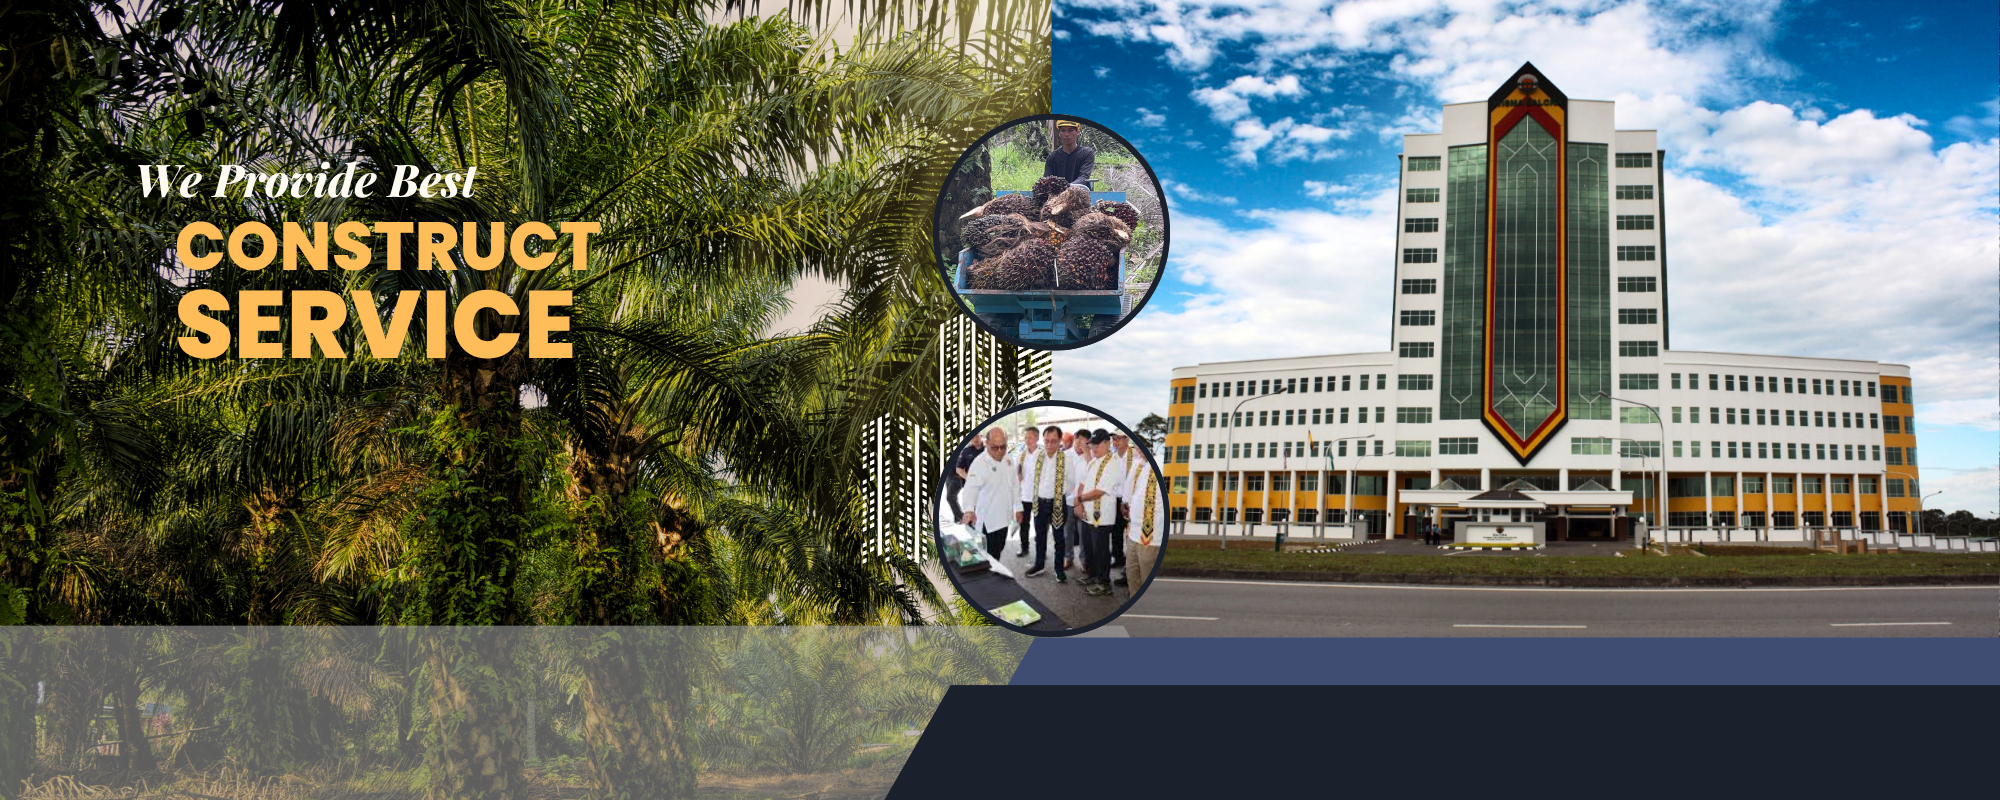
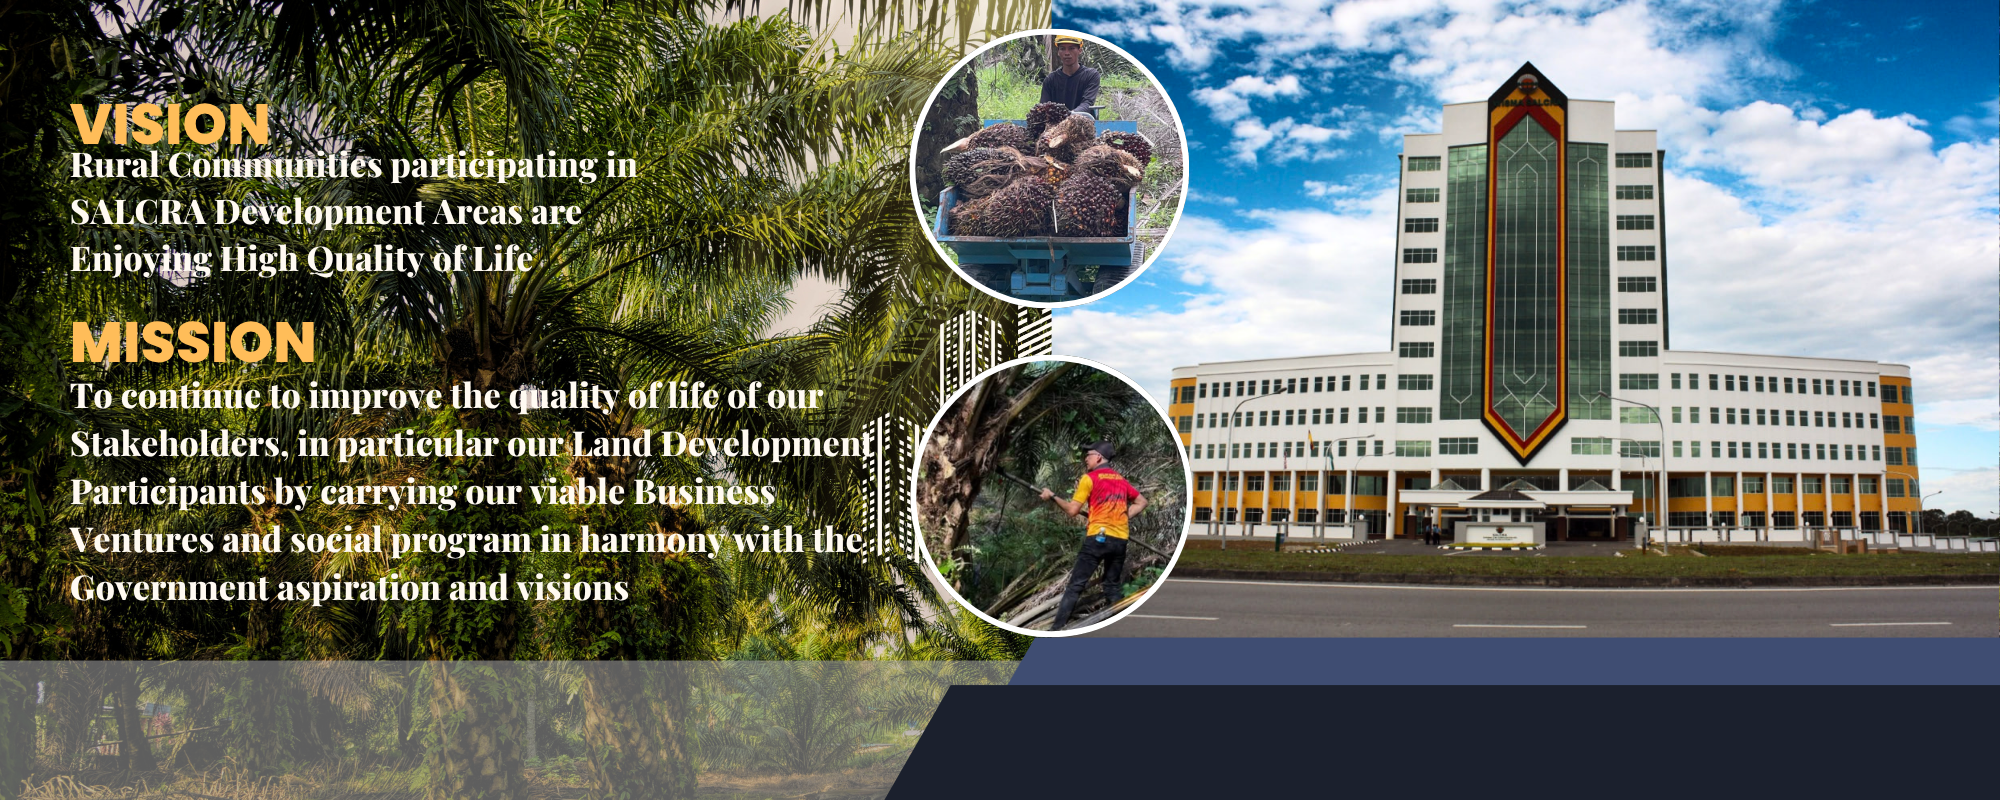
Updated - Aug

Changed region(s): [[0.0, 0.0312, 0.62, 0.8438]]

diff --git a/business/services/bajo-training-centre.html b/business/services/bajo-training-centre.html
@@ -894,34 +894,6 @@
       </div>
     </div>
 
-    <!-- ── KEY METRICS BAR ────────────────────────────────────── -->
-    <div class="bg-white border-b border-gray-100 shadow-sm relative z-20">
-      <div class="max-w-7xl mx-auto px-4 sm:px-6 lg:px-8 py-8">
-        <div
-          class="grid grid-cols-1 md:grid-cols-3 gap-8 text-center divider-y md:divider-y-0 md:divider-x divider-gray-100">
-          <div>
-            <span class="block text-4xl sm:text-5xl font-black text-[#00A859] stat-counter" data-target="1500"
-              data-suffix="+ / yr">0+ / yr</span>
-            <span class="block text-xs uppercase font-semibold text-gray-500 mt-2 tracking-wider">Trainees &amp; Staff
-              Trained</span>
-          </div>
-          <div class="pt-6 md:pt-0">
-            <span class="block text-4xl sm:text-5xl font-black text-[#00A859] stat-counter" data-target="12"
-              data-suffix=" Modules">0 Modules</span>
-            <span class="block text-xs uppercase font-semibold text-gray-500 mt-2 tracking-wider">Professional Core
-              Courses</span>
-          </div>
-          <div class="pt-6 md:pt-0">
-            <span class="block text-4xl sm:text-5xl font-black text-[#00A859] stat-counter" data-target="95"
-              data-suffix="%">0%</span>
-            <span class="block text-xs uppercase font-semibold text-gray-500 mt-2 tracking-wider">Trainee Competency
-              Rate</span>
-          </div>
-        </div>
-      </div>
-    </div>
-
-
     <!-- ══════════════════════════════════════════════════════════
          SECTION 1: HOME / OVERVIEW  (white background)
     ══════════════════════════════════════════════════════════ -->
@@ -929,13 +901,13 @@
       <div class="max-w-7xl mx-auto px-4 sm:px-6 lg:px-8">
         <div class="grid grid-cols-1 lg:grid-cols-12 gap-12 items-center">
 
-          <!-- LEFT: Campus image -->
+          <!-- LEFT: Training centre image -->
           <div class="lg:col-span-5 relative group">
             <div
               class="absolute inset-0 bg-[#00A859]/10 translate-x-3 translate-y-3 -z-10 transition-transform group-hover:translate-x-4 group-hover:translate-y-4 duration-300">
             </div>
             <div class="overflow-hidden shadow-2xl border border-gray-100 bg-white aspect-[4/3] relative">
-              <img src="../../assets/images/banners/btc.png" alt="Bajo Training Centre Campus"
+              <img src="../../assets/images/banners/btc.png" alt="Bajo Training Centre"
                 class="w-full h-full object-cover transition-transform duration-500 group-hover:scale-105">
             </div>
             <div class="mt-4 text-left">
@@ -1569,7 +1541,7 @@
               <div class="space-y-2">
                 <h4 class="text-lg font-bold text-gray-900">Meeting Rooms</h4>
                 <p class="text-xs text-gray-600 font-light leading-relaxed">
-                  Premium Board and meeting rooms equipped for collaborative group discussions of 10 to 25 guests.
+                  Board and meeting rooms equipped for collaborative group discussions of 10 to 25 guests.
                 </p>
               </div>
               <div
@@ -1730,7 +1702,7 @@
               class="relative w-full aspect-[16/10] overflow-hidden group/slider select-none border-b border-gray-100"
               data-slide-index="0">
               <div class="facility-slides flex h-full transition-transform duration-300 w-full">
-                <img src="../../assets/images/banners/trail1.jpg" alt="Paved Campus Jogging Track"
+                <img src="../../assets/images/banners/trail1.jpg" alt="Paved Jogging Track"
                   class="w-full h-full object-cover shrink-0">
                 <img src="../../assets/images/banners/trail2.jpg" alt="Scenic Nature Trails"
                   class="w-full h-full object-cover shrink-0">
@@ -1759,7 +1731,7 @@
               <div class="space-y-2">
                 <h4 class="text-lg font-bold text-gray-900">Jogging Track &amp; Trails</h4>
                 <p class="text-xs text-gray-600 font-light leading-relaxed">
-                  Dedicated outdoor jogging tracks and nature trails winding through Lundu's scenic campus landscapes.
+                  Dedicated outdoor jogging tracks and nature trails winding through Lundu's scenic landscapes.
                 </p>
               </div>
               <div
@@ -1911,19 +1883,14 @@
               <!-- Year 2017 Card -->
               <div onclick="selectYear('2017')"
                 class="group cursor-pointer relative rounded-none overflow-hidden aspect-[4/3] shadow-lg border border-gray-100 bg-white hover:shadow-2xl transition-all duration-300 transform hover:-translate-y-1">
-                <img src="../../assets/images/banners/training_classroom.png" alt="2017 Events"
+                <img src="../../assets/images/banners/image_ph.jpg" alt="2017 Events"
                   class="absolute inset-0 w-full h-full object-cover transition-transform duration-500 group-hover:scale-105 opacity-90">
                 <div class="absolute inset-0 bg-gradient-to-t from-black/85 via-black/40 to-transparent"></div>
                 <div class="absolute bottom-0 left-0 right-0 p-6 text-white flex flex-col justify-end h-full">
-                  <span class="text-[10px] text-[#F2A900] uppercase font-bold tracking-wider mb-1">Archive Folder</span>
-                  <h3 class="text-2xl font-extrabold tracking-wide">Year 2017</h3>
-                  <p
-                    class="text-xs text-gray-200 font-light mt-1.5 opacity-0 group-hover:opacity-100 transition-opacity duration-300">
-                    View events, classrooms, and blessings from 2017.
-                  </p>
+                  <h3 class="text-2xl font-extrabold tracking-wide">Gallery Event 2017</h3>
                   <div
                     class="mt-4 flex items-center gap-1.5 text-xs text-[#00A859] font-bold bg-white rounded-lg px-3 py-1.5 w-fit transform translate-y-2 opacity-0 group-hover:translate-y-0 group-hover:opacity-100 transition-all duration-300">
-                    Read More <i data-feather="chevron-right" class="w-3.5 h-3.5"></i>
+                    View Events <i data-feather="chevron-right" class="w-3.5 h-3.5"></i>
                   </div>
                 </div>
               </div>
@@ -1931,19 +1898,14 @@
               <!-- Year 2018 Card -->
               <div onclick="selectYear('2018')"
                 class="group cursor-pointer relative rounded-none overflow-hidden aspect-[4/3] shadow-lg border border-gray-100 bg-white hover:shadow-2xl transition-all duration-300 transform hover:-translate-y-1">
-                <img src="../../assets/images/banners/training_field_work.png" alt="2018 Events"
+                <img src="../../assets/images/banners/image_ph.jpg" alt="2018 Events"
                   class="absolute inset-0 w-full h-full object-cover transition-transform duration-500 group-hover:scale-105 opacity-90">
                 <div class="absolute inset-0 bg-gradient-to-t from-black/85 via-black/40 to-transparent"></div>
                 <div class="absolute bottom-0 left-0 right-0 p-6 text-white flex flex-col justify-end h-full">
-                  <span class="text-[10px] text-[#F2A900] uppercase font-bold tracking-wider mb-1">Archive Folder</span>
-                  <h3 class="text-2xl font-extrabold tracking-wide">Year 2018</h3>
-                  <p
-                    class="text-xs text-gray-200 font-light mt-1.5 opacity-0 group-hover:opacity-100 transition-opacity duration-300">
-                    Browse infrastructure clearing and maintenance reports.
-                  </p>
+                  <h3 class="text-2xl font-extrabold tracking-wide">Gallery Event 2018</h3>
                   <div
                     class="mt-4 flex items-center gap-1.5 text-xs text-[#00A859] font-bold bg-white rounded-lg px-3 py-1.5 w-fit transform translate-y-2 opacity-0 group-hover:translate-y-0 group-hover:opacity-100 transition-all duration-300">
-                    Read More <i data-feather="chevron-right" class="w-3.5 h-3.5"></i>
+                    View Events <i data-feather="chevron-right" class="w-3.5 h-3.5"></i>
                   </div>
                 </div>
               </div>
@@ -1986,7 +1948,7 @@
     <section id="gallery" class="scroll-mt-32 py-20 bg-gray-50 border-t border-gray-200">
       <div class="max-w-7xl mx-auto px-4 sm:px-6 lg:px-8">
         <div class="text-center max-w-3xl mx-auto mb-16">
-          <span class="text-secondary font-bold tracking-widest uppercase text-sm mb-2 block">Campus
+          <span class="text-secondary font-bold tracking-widest uppercase text-sm mb-2 block">Training centre
             life in pictures</span>
           <h2 class="text-3xl sm:text-4xl font-extrabold text-gray-900 tracking-tight">BTC Visual Gallery</h2>
           <p class="text-base text-gray-600 mt-2 font-light">Explore our Dayak-crafted structures, classrooms, field
@@ -2008,13 +1970,13 @@
                 <div
                   class="group overflow-hidden border border-gray-100 shadow-sm bg-white hover:shadow-md transition-all duration-300">
                   <div class="overflow-hidden aspect-[4/3] bg-gray-100">
-                    <img src="../../assets/images/banners/btc.png" alt="Bajo Campus Main Building"
+                    <img src="../../assets/images/banners/btc.png" alt="Bajo Training Centre"
                       class="w-full h-full object-cover group-hover:scale-105 transition-transform duration-500">
                   </div>
                   <div class="p-4">
-                    <span class="text-[9px] font-bold text-[#00A859] uppercase tracking-wider">Campus
+                    <span class="text-[9px] font-bold text-[#00A859] uppercase tracking-wider">Training Centre
                       Architecture</span>
-                    <h5 class="font-bold text-gray-900 text-sm mt-1">Bajo Campus Main Building</h5>
+                    <h5 class="font-bold text-gray-900 text-sm mt-1">Bajo Training Centre Main Building</h5>
                   </div>
                 </div>
               </div>
@@ -2342,15 +2304,15 @@
           "2017": {
             "July": {
               description: "Focus on academic cohorts, specialized seminars, and interactive classroom learning modules.",
-              coverImage: "../../assets/images/banners/training_classroom.png",
+              coverImage: "../../assets/images/banners/image_ph.jpg",
               items: [
                 {
-                  img: "../../assets/images/banners/training_classroom.png",
+                  img: "../../assets/images/banners/image_ph.jpg",
                   title: "Training Seminars in Progress",
                   desc: "BTC hosted several regional training sessions for palm oil sustainability standards and supervisor leadership."
                 },
                 {
-                  img: "../../assets/images/banners/btc.png",
+                  img: "../../assets/images/banners/image_ph.jpg",
                   title: "BTC Classroom Discussions",
                   desc: "Interactive lecture format facilitating knowledge transfer between senior engineers and plantation managers."
                 }
@@ -2358,27 +2320,27 @@
             },
             "August": {
               description: "Milestones in staff organization, site purification rites, and general compound beautification works.",
-              coverImage: "../../assets/images/banners/btc.png",
+              coverImage: "../../assets/images/banners/image_ph.jpg",
               items: [
                 {
-                  img: "../../assets/images/banners/btc.png",
+                  img: "../../assets/images/banners/image_ph.jpg",
                   title: "Ground Blessing Ceremony",
                   desc: "Local community leaders and SALCRA management conducting blessing rites for future extension blocks at Bajo."
                 },
                 {
-                  img: "../../assets/images/banners/wisma-building.jpg",
+                  img: "../../assets/images/banners/image_ph.jpg",
                   title: "Staff Relocation to New Office Wings",
                   desc: "BTC administration team completing their relocation to modern workspaces in the newly constructed annex."
                 },
                 {
-                  img: "../../assets/images/banners/support_services_hero.png",
+                  img: "../../assets/images/banners/image_ph.jpg",
                   title: "Site Cleaning Campaign",
                   desc: "Joint cleaning campaign (Gotong-Royong) executed by BTC staff and trainees to preserve environmental quality."
                 },
                 {
-                  img: "../../assets/images/banners/plantation_aerial.png",
+                  img: "../../assets/images/banners/image_ph.jpg",
                   title: "Compound Maintenance & Grass Cutting",
-                  desc: "Routine landscape management to ensure campus paths, facilities borders, and perimeter zones remain neat."
+                  desc: "Routine landscape management to ensure site paths, facilities borders, and perimeter zones remain neat."
                 }
               ]
             }
@@ -2386,15 +2348,15 @@
           "2018": {
             "January": {
               description: "Critical infrastructure reinforcement, drainage clearing, and water logistics updates during monsoon checks.",
-              coverImage: "../../assets/images/banners/seed_garden_hero.png",
+              coverImage: "../../assets/images/banners/image_ph.jpg",
               items: [
                 {
-                  img: "../../assets/images/banners/seed_garden_hero.png",
+                  img: "../../assets/images/banners/image_ph.jpg",
                   title: "Clearing the Water Dam",
                   desc: "Removal of debris and mud siltation from the BTC reservoir dam to secure stable gravity water supply."
                 },
                 {
-                  img: "../../assets/images/banners/support_logistics.png",
+                  img: "../../assets/images/banners/image_ph.jpg",
                   title: "Clearing and Upgrading Main Pipes",
                   desc: "Replacing corroded joints and unblocking filtration pipes leading from source tanks to accommodation quarters."
                 }
@@ -2402,10 +2364,10 @@
             },
             "February": {
               description: "Practical outdoor workshops, tools safety operations, and field supervision simulations.",
-              coverImage: "../../assets/images/banners/training_field_work.png",
+              coverImage: "../../assets/images/banners/image_ph.jpg",
               items: [
                 {
-                  img: "../../assets/images/banners/training_field_work.png",
+                  img: "../../assets/images/banners/image_ph.jpg",
                   title: "Field Activities Review",
                   desc: "Supervisors guiding cohorts through harvesting simulations and tools handling best practices."
                 }

diff --git a/css/output.css b/css/output.css
@@ -786,10 +786,6 @@ body {
   top: 100%;
 }
 
-.bottom-4 {
-  bottom: 1rem;
-}
-
 .-z-10 {
   z-index: -10;
 }
@@ -1032,6 +1028,10 @@ body {
   aspect-ratio: 16/10;
 }
 
+.aspect-\[16\/14\] {
+  aspect-ratio: 16/14;
+}
+
 .aspect-\[16\/9\] {
   aspect-ratio: 16/9;
 }
@@ -1046,14 +1046,6 @@ body {
 
 .aspect-video {
   aspect-ratio: 16 / 9;
-}
-
-.aspect-\[2\/3\] {
-  aspect-ratio: 2/3;
-}
-
-.aspect-\[16\/14\] {
-  aspect-ratio: 16/14;
 }
 
 .h-1 {
@@ -3540,6 +3532,10 @@ body {
     min-height: 480px;
   }
 
+  .sm\:w-1\/2 {
+    width: 50%;
+  }
+
   .sm\:w-32 {
     width: 8rem;
   }
@@ -3550,10 +3546,6 @@ body {
 
   .sm\:w-\[calc\(50\%-12px\)\] {
     width: calc(50% - 12px);
-  }
-
-  .sm\:w-1\/2 {
-    width: 50%;
   }
 
   .sm\:grid-cols-2 {
@@ -3726,6 +3718,10 @@ body {
     width: 50%;
   }
 
+  .md\:w-1\/3 {
+    width: 33.333333%;
+  }
+
   .md\:w-5\/12 {
     width: 41.666667%;
   }
@@ -3736,10 +3732,6 @@ body {
 
   .md\:w-\[calc\(33\.333\%-16px\)\] {
     width: calc(33.333% - 16px);
-  }
-
-  .md\:w-1\/3 {
-    width: 33.333333%;
   }
 
   .md\:max-w-xs {
